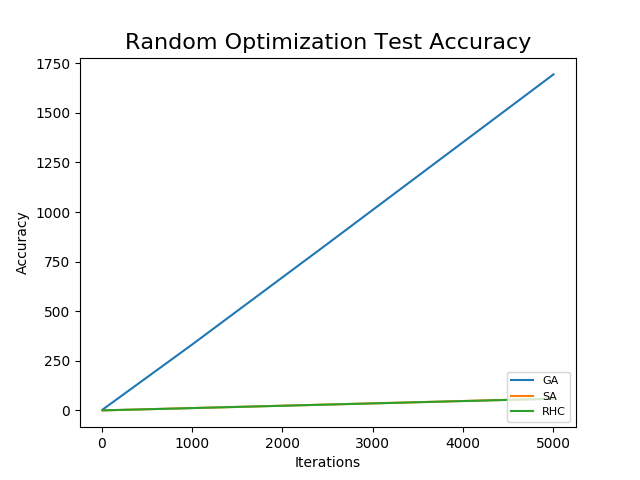
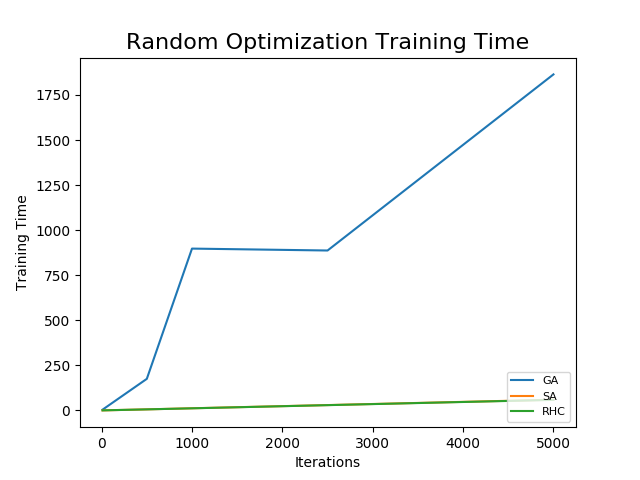
more optimizations

diff --git a/Assignment2/wine_ga.py b/Assignment2/wine_ga.py
@@ -56,10 +56,10 @@ def main():
     factory = BackPropagationNetworkFactory()
     measure = SumOfSquaresError()
     data_set = DataSet(train_instances)
-    iteration_list = [5000]
-    pop_list = [500]
-    mate_list = [250]
-    mutate_list = [20]
+    iteration_list = [10, 100, 500, 1000, 2500, 5000]
+    pop_list = [10, 20, 50, 100, 200, 500]
+    mate_list = [5, 10, 20, 50, 100, 250]
+    mutate_list = [2, 5, 5, 10, 10, 20]
 
 
     networks = []  # BackPropagationNetwork

diff --git a/Assignment2/plot.py b/Assignment2/plot.py
@@ -1315,8 +1315,8 @@ def main():
              label='RHC')
 
     plt.legend(loc=4, fontsize=8)
-    plt.title('Random Optimization Test Accuracy', fontdict={'size': 16})
-    plt.ylabel('Accuracy')
+    plt.title('Random Optimization Training Time', fontdict={'size': 16})
+    plt.ylabel('Training Time')
     plt.xlabel('Iterations')
     plt.savefig('images/NN/FINAL_TRAIN_TIMES.png')
     plt.close()
